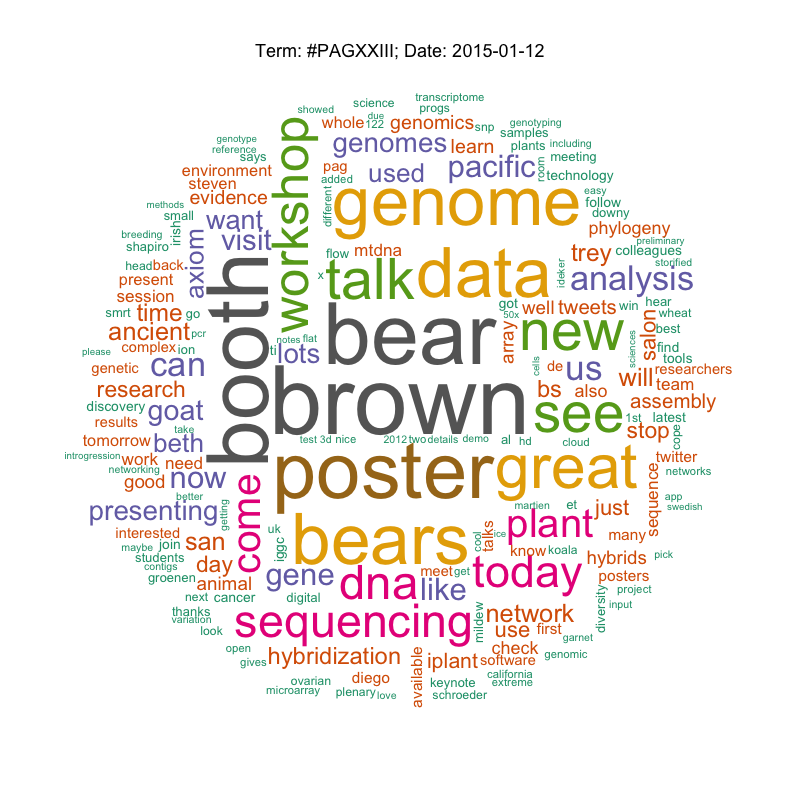
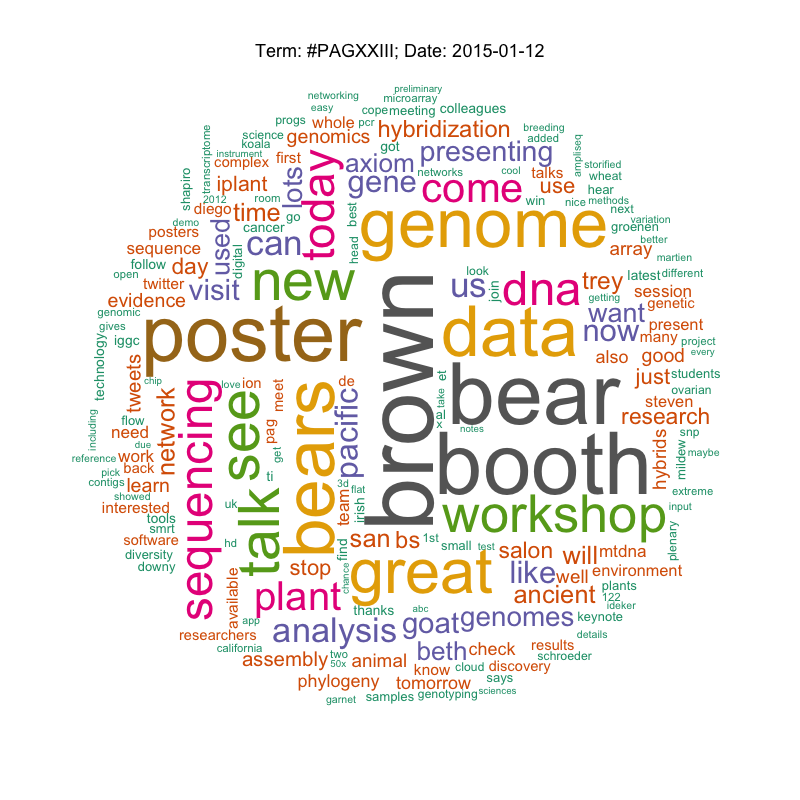
change readme

Changed region(s): [[0.0938, 0.0938, 0.9062, 0.875]]

diff --git a/README.md b/README.md
@@ -1,73 +1,5 @@
-zmSNPtools
+#PAGXXIII tweets analysis
 ==========
 
-A collection of python codes designed to process a range of basic, \
-large-scale analyses for SNPs of maize diversity panel.
-
-Usage:
-=========
-Copy the piece of python code to the directory in your $PATH:
-for example:
-```
-$: cp impute4diallel/impute4diallel.py ~/bin/impute4diallel
-
-```
-Then, you will be ready to run it
-```
-$: impute4diallel -help
-```
-
-Description
-=========
-## fpSNP
-find a set of population specific fingerprint SNPs
-
-#### update of the program
-10/3/2014: v0.1 python code tested with a small set of simulated data
-
-#### usage:
-
-```
-git clone git@github.com:yangjl/zmSNPtools.git
-cd to/your/path
-cp zmSNPtools/packages/fpSNP/fpSNP_v0.1.py zmSNPtools/bin/fpSNP
-chmod +x zmSNPtools/bin/fpSNP
-export PATH=$PATH:full/path/of/zmSNPtools/bin/
-fpSNP -h
-
-```
-
-## gerpIBD
-Compute the GERP score in a given IBM regions across different genotypes.
-
-#### update of the program
-12/17/2014: beta version for testing run
-
-#### impute4diallel
-SNP Imputation for maize diallel population from parental SNP panel to F1 hybrids.
-
-## dsf2GWAS
-transform density SNP format (DSF) to GWAS (gensel4.2 supported) and other formats
-
-#### 
-
-
-
-
-Update
-=========
-### General
-1. changed gitignore
-2. unwatch the MyPack and test folders
-
-
-#### packages:
-1. updated a SNP merge package **snp3merge**: merge hapmap1, hapmap2 and RNA-seq data
-2. updated **impute4diallel**
-3. updated **snpfrq**
-4. updated **merge4ames**
-
-#### MyPack
-1. updated and tested **snp_sampling** program for XBSA project;
-
+Visit my [website](yangjl.com/en/) for more detail
 
